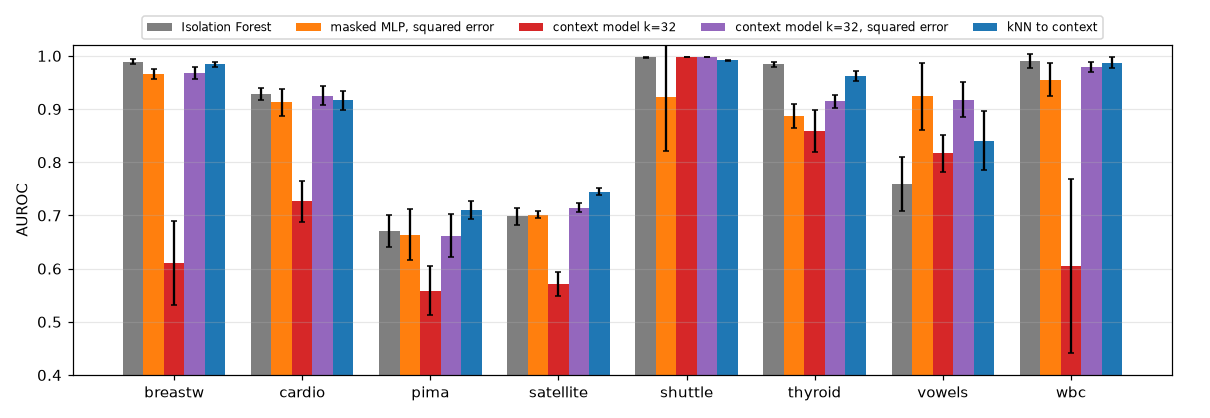
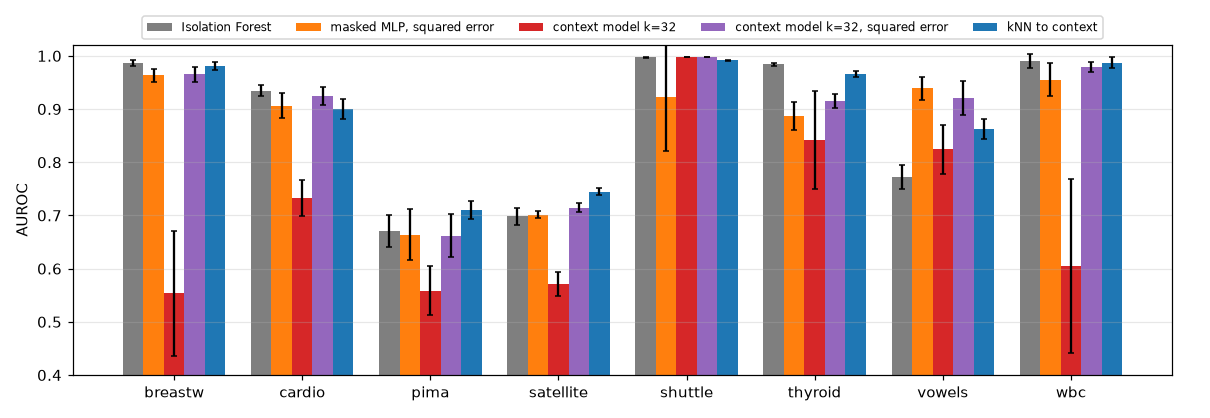
Rebuild the tables and figures from the new ADBench runs

diff --git a/results/tables.md b/results/tables.md
@@ -67,60 +67,86 @@
 
 | method | breastw | cardio | pima | satellite | shuttle | thyroid | vowels | wbc | mean |
 |---|---|---|---|---|---|---|---|---|---|
-| Isolation Forest | 0.99 ± 0.00 | 0.93 ± 0.01 | 0.67 ± 0.03 | 0.70 ± 0.02 | 1.00 ± 0.00 | 0.98 ± 0.00 | 0.76 ± 0.05 | 0.99 ± 0.01 | 0.877 |
-| LOF | 0.49 ± 0.05 | 0.58 ± 0.03 | 0.62 ± 0.02 | 0.56 ± 0.01 | 0.51 ± 0.02 | 0.67 ± 0.03 | 0.93 ± 0.01 | 0.93 ± 0.03 | 0.661 |
-| kNN | 0.98 ± 0.01 | 0.69 ± 0.03 | 0.70 ± 0.03 | 0.66 ± 0.01 | 0.67 ± 0.01 | 0.96 ± 0.00 | 0.97 ± 0.01 | 0.99 ± 0.02 | 0.828 |
-| PCA | 0.92 ± 0.02 | 0.75 ± 0.02 | 0.59 ± 0.03 | 0.65 ± 0.01 | 0.74 ± 0.05 | 0.94 ± 0.02 | 0.84 ± 0.03 | 0.96 ± 0.03 | 0.798 |
-| Masked MLP, standardized error | 0.58 ± 0.01 | 0.75 ± 0.03 | 0.59 ± 0.05 | 0.59 ± 0.01 | 0.84 ± 0.22 | 0.79 ± 0.02 | 0.81 ± 0.05 | 0.56 ± 0.15 | 0.688 |
-| Masked MLP, squared error | 0.97 ± 0.01 | 0.91 ± 0.03 | 0.66 ± 0.05 | 0.70 ± 0.01 | 0.92 ± 0.10 | 0.89 ± 0.02 | 0.92 ± 0.06 | 0.96 ± 0.03 | 0.867 |
-| Context model k=0 | 0.56 ± 0.03 | 0.72 ± 0.04 | 0.56 ± 0.05 | 0.57 ± 0.02 | 1.00 ± 0.00 | 0.86 ± 0.04 | 0.82 ± 0.04 | 0.52 ± 0.21 | 0.700 |
-| Context model k=32 | 0.61 ± 0.08 | 0.73 ± 0.04 | 0.56 ± 0.05 | 0.57 ± 0.02 | 1.00 ± 0.00 | 0.86 ± 0.04 | 0.82 ± 0.03 | 0.61 ± 0.16 | 0.718 |
-| Context model k=32, squared error | 0.97 ± 0.01 | 0.93 ± 0.02 | 0.66 ± 0.04 | 0.71 ± 0.01 | 1.00 ± 0.00 | 0.91 ± 0.01 | 0.92 ± 0.03 | 0.98 ± 0.01 | 0.885 |
-| kNN to context | 0.98 ± 0.00 | 0.92 ± 0.02 | 0.71 ± 0.02 | 0.75 ± 0.01 | 0.99 ± 0.00 | 0.96 ± 0.01 | 0.84 ± 0.06 | 0.99 ± 0.01 | 0.892 |
-| Mahalanobis to context | 0.97 ± 0.01 | 0.92 ± 0.01 | 0.66 ± 0.02 | 0.64 ± 0.01 | 0.98 ± 0.00 | 0.95 ± 0.01 | 0.82 ± 0.06 | 0.97 ± 0.02 | 0.864 |
+| Isolation Forest | 0.99 ± 0.01 | 0.93 ± 0.01 | 0.67 ± 0.03 | 0.70 ± 0.02 | 1.00 ± 0.00 | 0.98 ± 0.00 | 0.77 ± 0.02 | 0.99 ± 0.01 | 0.879 |
+| LOF | 0.22 ± 0.08 | 0.57 ± 0.04 | 0.62 ± 0.02 | 0.56 ± 0.01 | 0.51 ± 0.02 | 0.67 ± 0.04 | 0.93 ± 0.01 | 0.93 ± 0.03 | 0.627 |
+| kNN | 0.97 ± 0.01 | 0.69 ± 0.03 | 0.70 ± 0.03 | 0.66 ± 0.01 | 0.67 ± 0.01 | 0.96 ± 0.00 | 0.98 ± 0.00 | 0.99 ± 0.02 | 0.828 |
+| PCA | 0.91 ± 0.03 | 0.75 ± 0.02 | 0.59 ± 0.03 | 0.65 ± 0.01 | 0.74 ± 0.05 | 0.94 ± 0.02 | 0.84 ± 0.04 | 0.96 ± 0.03 | 0.796 |
+| Masked MLP, standardized error | 0.52 ± 0.08 | 0.76 ± 0.04 | 0.59 ± 0.05 | 0.59 ± 0.01 | 0.84 ± 0.22 | 0.76 ± 0.05 | 0.85 ± 0.04 | 0.56 ± 0.15 | 0.684 |
+| Masked MLP, squared error | 0.96 ± 0.01 | 0.91 ± 0.02 | 0.66 ± 0.05 | 0.70 ± 0.01 | 0.92 ± 0.10 | 0.89 ± 0.03 | 0.94 ± 0.02 | 0.96 ± 0.03 | 0.867 |
+| Context model k=0 | 0.53 ± 0.10 | 0.73 ± 0.04 | 0.56 ± 0.05 | 0.57 ± 0.02 | 1.00 ± 0.00 | 0.84 ± 0.09 | 0.83 ± 0.04 | 0.52 ± 0.21 | 0.696 |
+| Context model k=32 | 0.55 ± 0.12 | 0.73 ± 0.03 | 0.56 ± 0.05 | 0.57 ± 0.02 | 1.00 ± 0.00 | 0.84 ± 0.09 | 0.82 ± 0.05 | 0.61 ± 0.16 | 0.711 |
+| Context model k=32, squared error | 0.97 ± 0.01 | 0.92 ± 0.02 | 0.66 ± 0.04 | 0.71 ± 0.01 | 1.00 ± 0.00 | 0.92 ± 0.01 | 0.92 ± 0.03 | 0.98 ± 0.01 | 0.885 |
+| kNN to context | 0.98 ± 0.01 | 0.90 ± 0.02 | 0.71 ± 0.02 | 0.75 ± 0.01 | 0.99 ± 0.00 | 0.97 ± 0.01 | 0.86 ± 0.02 | 0.99 ± 0.01 | 0.893 |
+| Mahalanobis to context | 0.97 ± 0.01 | 0.89 ± 0.02 | 0.66 ± 0.02 | 0.64 ± 0.01 | 0.98 ± 0.00 | 0.95 ± 0.01 | 0.84 ± 0.04 | 0.97 ± 0.02 | 0.864 |
 
 ### ADBench, AUPRC
 
 | method | breastw | cardio | pima | satellite | shuttle | thyroid | vowels | wbc | mean |
 |---|---|---|---|---|---|---|---|---|---|
-| Isolation Forest | 0.98 ± 0.01 | 0.58 ± 0.07 | 0.51 ± 0.06 | 0.66 ± 0.00 | 0.98 ± 0.01 | 0.66 ± 0.10 | 0.19 ± 0.03 | 0.92 ± 0.11 | 0.684 |
-| LOF | 0.32 ± 0.02 | 0.20 ± 0.04 | 0.44 ± 0.02 | 0.38 ± 0.02 | 0.12 ± 0.01 | 0.04 ± 0.01 | 0.38 ± 0.06 | 0.32 ± 0.09 | 0.276 |
-| kNN | 0.93 ± 0.03 | 0.32 ± 0.05 | 0.54 ± 0.05 | 0.51 ± 0.01 | 0.18 ± 0.01 | 0.28 ± 0.03 | 0.57 ± 0.12 | 0.86 ± 0.13 | 0.523 |
-| PCA | 0.86 ± 0.03 | 0.34 ± 0.03 | 0.44 ± 0.03 | 0.51 ± 0.01 | 0.19 ± 0.02 | 0.56 ± 0.08 | 0.24 ± 0.10 | 0.58 ± 0.19 | 0.465 |
-| Masked MLP, standardized error | 0.37 ± 0.02 | 0.54 ± 0.06 | 0.44 ± 0.04 | 0.46 ± 0.02 | 0.66 ± 0.40 | 0.11 ± 0.03 | 0.19 ± 0.02 | 0.10 ± 0.09 | 0.358 |
-| Masked MLP, squared error | 0.92 ± 0.02 | 0.56 ± 0.10 | 0.49 ± 0.06 | 0.57 ± 0.01 | 0.71 ± 0.29 | 0.44 ± 0.07 | 0.47 ± 0.17 | 0.63 ± 0.16 | 0.598 |
-| Context model k=0 | 0.38 ± 0.07 | 0.51 ± 0.06 | 0.42 ± 0.05 | 0.48 ± 0.02 | 0.95 ± 0.01 | 0.23 ± 0.05 | 0.31 ± 0.03 | 0.21 ± 0.23 | 0.439 |
-| Context model k=32 | 0.42 ± 0.13 | 0.53 ± 0.06 | 0.42 ± 0.05 | 0.49 ± 0.02 | 0.96 ± 0.01 | 0.23 ± 0.05 | 0.29 ± 0.04 | 0.22 ± 0.23 | 0.443 |
-| Context model k=32, squared error | 0.92 ± 0.03 | 0.59 ± 0.08 | 0.49 ± 0.06 | 0.60 ± 0.01 | 0.93 ± 0.01 | 0.46 ± 0.07 | 0.41 ± 0.09 | 0.74 ± 0.09 | 0.641 |
-| kNN to context | 0.96 ± 0.01 | 0.60 ± 0.09 | 0.52 ± 0.04 | 0.67 ± 0.01 | 0.91 ± 0.01 | 0.44 ± 0.08 | 0.20 ± 0.07 | 0.88 ± 0.08 | 0.647 |
-| Mahalanobis to context | 0.94 ± 0.02 | 0.54 ± 0.09 | 0.50 ± 0.05 | 0.55 ± 0.01 | 0.78 ± 0.01 | 0.48 ± 0.10 | 0.22 ± 0.09 | 0.71 ± 0.16 | 0.588 |
+| Isolation Forest | 0.97 ± 0.01 | 0.60 ± 0.06 | 0.51 ± 0.06 | 0.66 ± 0.00 | 0.98 ± 0.01 | 0.66 ± 0.06 | 0.22 ± 0.10 | 0.92 ± 0.11 | 0.691 |
+| LOF | 0.25 ± 0.01 | 0.19 ± 0.04 | 0.44 ± 0.02 | 0.38 ± 0.02 | 0.12 ± 0.01 | 0.04 ± 0.01 | 0.38 ± 0.07 | 0.32 ± 0.09 | 0.267 |
+| kNN | 0.93 ± 0.03 | 0.32 ± 0.05 | 0.54 ± 0.05 | 0.51 ± 0.01 | 0.18 ± 0.01 | 0.28 ± 0.03 | 0.69 ± 0.07 | 0.86 ± 0.13 | 0.537 |
+| PCA | 0.85 ± 0.04 | 0.34 ± 0.03 | 0.44 ± 0.03 | 0.51 ± 0.01 | 0.19 ± 0.02 | 0.56 ± 0.08 | 0.23 ± 0.10 | 0.58 ± 0.19 | 0.464 |
+| Masked MLP, standardized error | 0.36 ± 0.04 | 0.54 ± 0.05 | 0.44 ± 0.04 | 0.46 ± 0.02 | 0.66 ± 0.40 | 0.12 ± 0.07 | 0.33 ± 0.13 | 0.10 ± 0.09 | 0.376 |
+| Masked MLP, squared error | 0.92 ± 0.03 | 0.54 ± 0.10 | 0.49 ± 0.06 | 0.57 ± 0.01 | 0.71 ± 0.29 | 0.44 ± 0.08 | 0.54 ± 0.13 | 0.63 ± 0.16 | 0.603 |
+| Context model k=0 | 0.41 ± 0.12 | 0.51 ± 0.04 | 0.42 ± 0.05 | 0.48 ± 0.02 | 0.95 ± 0.01 | 0.24 ± 0.07 | 0.35 ± 0.16 | 0.21 ± 0.23 | 0.448 |
+| Context model k=32 | 0.42 ± 0.14 | 0.53 ± 0.04 | 0.42 ± 0.05 | 0.49 ± 0.02 | 0.96 ± 0.01 | 0.23 ± 0.07 | 0.33 ± 0.15 | 0.22 ± 0.23 | 0.450 |
+| Context model k=32, squared error | 0.92 ± 0.03 | 0.59 ± 0.09 | 0.49 ± 0.06 | 0.60 ± 0.01 | 0.93 ± 0.01 | 0.46 ± 0.08 | 0.42 ± 0.14 | 0.74 ± 0.09 | 0.643 |
+| kNN to context | 0.95 ± 0.02 | 0.56 ± 0.09 | 0.52 ± 0.04 | 0.67 ± 0.01 | 0.91 ± 0.01 | 0.45 ± 0.06 | 0.20 ± 0.02 | 0.88 ± 0.08 | 0.644 |
+| Mahalanobis to context | 0.94 ± 0.02 | 0.48 ± 0.07 | 0.50 ± 0.05 | 0.55 ± 0.01 | 0.78 ± 0.01 | 0.46 ± 0.04 | 0.20 ± 0.05 | 0.71 ± 0.16 | 0.578 |
+
+### ADBench, paired differences in AUROC over tables and splits
+
+| paired difference in AUROC | mean | 95 % interval | tables above 0 | splits above 0 |
+|---|---|---|---|---|
+| standardized error: context k=32 minus k=0 | +0.015 | [-0.001, +0.040] | 7 of 8 | 31 of 40 |
+| standardized error: context k=32 minus masked MLP | +0.027 | [-0.017, +0.083] | 4 of 8 | 17 of 40 |
+| standardized error: context k=32 minus kNN to context | -0.182 | [-0.287, -0.088] | 1 of 8 | 6 of 40 |
+| standardized error: context k=32 minus Isolation Forest | -0.169 | [-0.288, -0.063] | 2 of 8 | 7 of 40 |
+| squared error: context k=32 minus masked MLP | +0.018 | [-0.001, +0.042] | 6 of 8 | 30 of 40 |
+| squared error: context k=32 minus kNN to context | -0.008 | [-0.031, +0.017] | 3 of 8 | 16 of 40 |
+| squared error: context k=32 minus Isolation Forest | +0.006 | [-0.028, +0.053] | 3 of 8 | 19 of 40 |
+| context k=32: squared minus standardized error | +0.174 | [+0.086, +0.278] | 7 of 8 | 36 of 40 |
+
+### ADBench, test rows with an exact copy in the training rows
+
+| table | rows | rows in a repeated vector | plain split: copy in the training rows | plain split: copy in a scored context | grouped split: any copy |
+|---|---|---|---|---|---|
+| breastw | 683 | 280 | 390 of 665 / 6 of 360 | 168 of 665 / 0 of 360 | 0 |
+| cardio | 1,831 | 16 | 16 of 2,485 / 2 of 265 | 0 of 2,485 / 0 of 265 | 0 |
+| pima | 768 | 0 | 0 of 750 / 0 of 405 | 0 of 750 / 0 of 405 | 0 |
+| satellite | 6,435 | 0 | 0 of 6,600 / 0 of 3,055 | 0 of 6,600 / 0 of 3,055 | 0 |
+| shuttle | 49,097 | 0 | 0 of 68,385 / 0 of 5,265 | 0 of 68,385 / 0 of 5,265 | 0 |
+| thyroid | 3,772 | 163 | 211 of 5,520 / 0 of 140 | 4 of 5,520 / 0 of 140 | 0 |
+| vowels | 1,456 | 8 | 0 of 2,110 / 10 of 75 | 0 of 2,110 / 1 of 75 | 0 |
+| wbc | 223 | 0 | 0 of 320 / 0 of 15 | 0 of 320 / 0 of 15 | 0 |
 
 ### AUROC against context size
 
 | k | Context model | kNN to context | Mahalanobis to context | ADBench mean, context model |
 |---|---|---|---|---|
-| 0 | 0.691 ± 0.022 | n/a | n/a | 0.700 |
-| 4 | 0.926 ± 0.020 | 0.916 ± 0.015 | 0.896 ± 0.019 | 0.719 |
-| 8 | 0.951 ± 0.016 | 0.949 ± 0.014 | 0.943 ± 0.019 | 0.718 |
-| 16 | 0.965 ± 0.015 | 0.966 ± 0.013 | 0.967 ± 0.015 | 0.719 |
-| 32 | 0.973 ± 0.011 | 0.978 ± 0.011 | 0.981 ± 0.011 | 0.718 |
-| 64 | 0.979 ± 0.005 | 0.986 ± 0.007 | 0.987 ± 0.008 | 0.718 |
+| 0 | 0.691 ± 0.022 | n/a | n/a | 0.696 |
+| 4 | 0.926 ± 0.020 | 0.916 ± 0.015 | 0.896 ± 0.019 | 0.711 |
+| 8 | 0.951 ± 0.016 | 0.949 ± 0.014 | 0.943 ± 0.019 | 0.711 |
+| 16 | 0.965 ± 0.015 | 0.966 ± 0.013 | 0.967 ± 0.015 | 0.711 |
+| 32 | 0.973 ± 0.011 | 0.978 ± 0.011 | 0.981 ± 0.011 | 0.711 |
+| 64 | 0.979 ± 0.005 | 0.986 ± 0.007 | 0.987 ± 0.008 | 0.711 |
 
 ### Schema change, half of the columns
 
 | method | synthetic, all columns | synthetic, half | ADBench, all | ADBench, half |
 |---|---|---|---|---|
-| Isolation Forest | 0.692 ± 0.021 | 0.671 ± 0.012 | 0.877 | 0.845 |
-| Local Outlier Factor | 0.691 ± 0.020 | 0.667 ± 0.012 | 0.661 | 0.655 |
-| kNN distance | 0.694 ± 0.021 | 0.666 ± 0.013 | 0.828 | 0.802 |
-| PCA reconstruction error | 0.583 ± 0.039 | 0.596 ± 0.022 | 0.798 | 0.688 |
-| Masked MLP, standardized error | 0.692 ± 0.027 | 0.671 ± 0.015 | 0.688 | 0.736 |
-| Masked MLP, squared error | 0.695 ± 0.021 | 0.671 ± 0.014 | 0.867 | 0.831 |
-| Context model without context (k=0) | 0.691 ± 0.022 | 0.670 ± 0.014 | 0.700 | 0.717 |
-| Context model (k=32) | 0.973 ± 0.011 | 0.925 ± 0.011 | 0.718 | 0.730 |
-| Context model, squared error (k=32) | 0.975 ± 0.009 | 0.926 ± 0.010 | 0.885 | 0.840 |
-| kNN to the context rows (k=32) | 0.978 ± 0.011 | 0.942 ± 0.014 | 0.892 | 0.856 |
-| Mahalanobis to the context rows (k=32) | 0.981 ± 0.011 | 0.935 ± 0.016 | 0.864 | 0.822 |
+| Isolation Forest | 0.692 ± 0.021 | 0.671 ± 0.012 | 0.879 | 0.846 |
+| Local Outlier Factor | 0.691 ± 0.020 | 0.667 ± 0.012 | 0.627 | 0.650 |
+| kNN distance | 0.694 ± 0.021 | 0.666 ± 0.013 | 0.828 | 0.805 |
+| PCA reconstruction error | 0.583 ± 0.039 | 0.596 ± 0.022 | 0.796 | 0.686 |
+| Masked MLP, standardized error | 0.692 ± 0.027 | 0.671 ± 0.015 | 0.684 | 0.735 |
+| Masked MLP, squared error | 0.695 ± 0.021 | 0.671 ± 0.014 | 0.867 | 0.832 |
+| Context model without context (k=0) | 0.691 ± 0.022 | 0.670 ± 0.014 | 0.696 | 0.720 |
+| Context model (k=32) | 0.973 ± 0.011 | 0.925 ± 0.011 | 0.711 | 0.730 |
+| Context model, squared error (k=32) | 0.975 ± 0.009 | 0.926 ± 0.010 | 0.885 | 0.841 |
+| kNN to the context rows (k=32) | 0.978 ± 0.011 | 0.942 ± 0.014 | 0.893 | 0.858 |
+| Mahalanobis to the context rows (k=32) | 0.981 ± 0.011 | 0.935 ± 0.016 | 0.864 | 0.825 |
 | Oracle density of the true population | 1.000 ± 0.000 | 0.980 ± 0.005 | n/a | n/a |
 
 ### Training cost
@@ -128,4 +154,4 @@
 | run | context model s | masked MLP s | parameters (context, MLP) |
 |---|---|---|---|
 | synthetic, one seed | 147 | 99 | 146,452, 142,100 |
-| ADBench, both models, one table | 121 |  |  |
+| ADBench, both models, one table | 92 |  |  |
